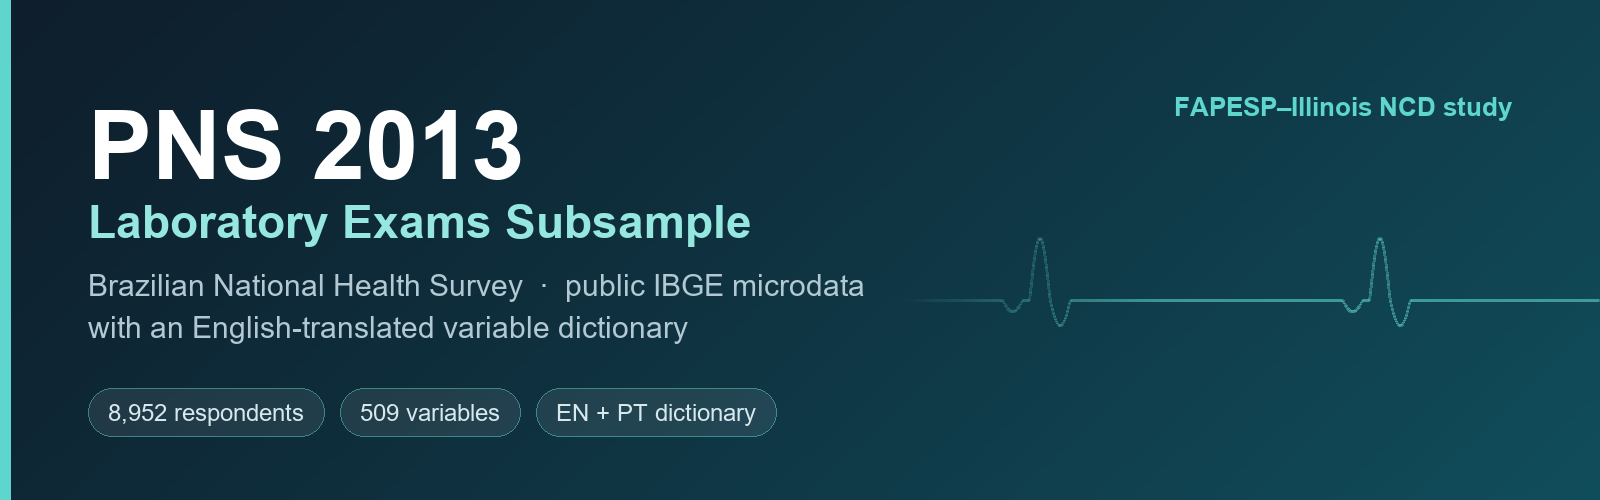
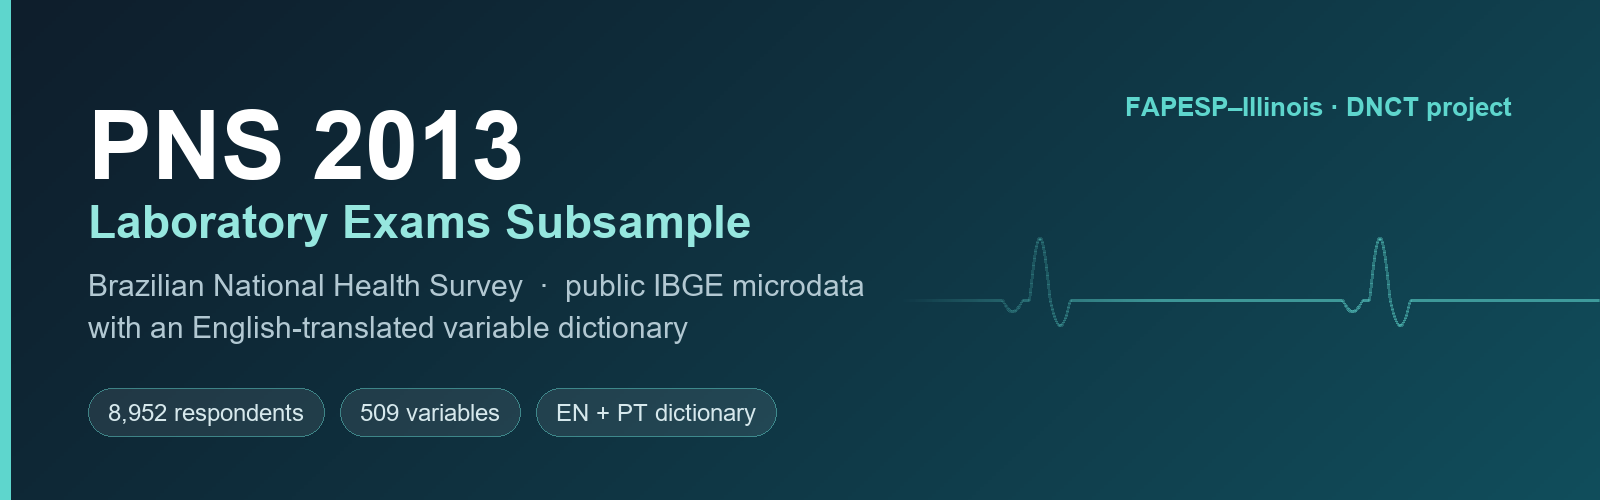
Name the researchers and correct the project title
Authorship taken from the title slide of PNS2013_primary_results.pptx:
Isabela Venancio da Silva (USP Sao Paulo), Xuan Lin and Amogh Mannava (UIUC).
The study is the FAPESP-Illinois DNCT Project, not "NCD study".

Also replaces the stale "adjust the paths at the top of each script" note --
paths already resolve relative to the repository root -- with a runnable
clone-and-run snippet.

Changed region(s): [[0.6875, 0.18, 0.9688, 0.24]]

diff --git a/README.md b/README.md
@@ -62,7 +62,7 @@ Blocks you will find: laboratory results (`Z*`), sociodemographics (`C*`, `E*`),
 
 ## Analysis code
 
-`pipeline/` contains the modelling code from the **FAPESP–Illinois NCD study**, which used this
+`pipeline/` contains the modelling code from the **FAPESP–Illinois DNCT Project**, which used this
 subsample to predict *measured* hypertension (systolic ≥ 140 or diastolic ≥ 90 mmHg) rather than
 self-reported diagnosis.
 
@@ -72,8 +72,18 @@ self-reported diagnosis.
 | `pipeline3_generic.py` | Splines, ordinal encoding, nested CV, calibration, SHAP, figures |
 | `METHODS_LOG.md` | Methodological log — decisions taken, and the mistakes caught along the way |
 
-The code expects the data at its original path; adjust the paths at the top of each script to
-point at `data/` in this repository.
+Paths resolve relative to the repository root, so the pipeline runs from a fresh clone with no
+editing. Override them with the `PNS2013_DATA` / `PNS2013_DIC` environment variables if your copy
+of the data lives elsewhere.
+
+```bash
+git clone https://github.com/isasaade-23/pns2013-lab-exams-en.git
+cd pns2013-lab-exams-en
+python pipeline/pns2013_hypertension_pipeline2.py undiagnosed prune
+```
+
+There is also a **Colab notebook** that runs the whole pipeline, clones this repository for its
+data, produces figures, and bundles every result into a downloadable `.zip`.
 
 `METHODS_LOG.md` is worth reading before reusing the pipeline. It records, among other things, an
 outcome-leakage bug in which a medication counter was computed before the hypertension-medication
@@ -83,9 +93,9 @@ variable was dropped — inflating AUC to 0.86 with sensitivity 1.000 before cor
 
 | Researcher | Affiliation |
 |---|---|
-| **Xuan Lin** | University of Illinois |
-| **Among** *(surname to be completed)* | University of Illinois |
-| **Isabela Venancio** | Universidade de São Paulo (USP) |
+| **Isabela Venancio da Silva** | Universidade de São Paulo (USP), São Paulo |
+| **Xuan Lin** | University of Illinois Urbana-Champaign (UIUC) |
+| **Amogh Mannava** | University of Illinois Urbana-Champaign (UIUC) |
 
 ## Citation
 
